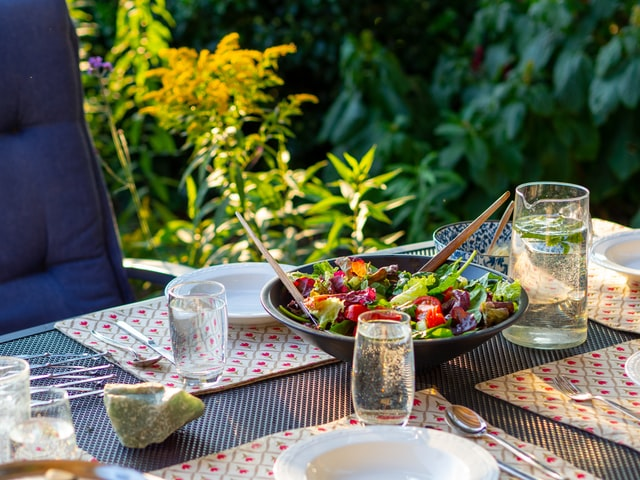
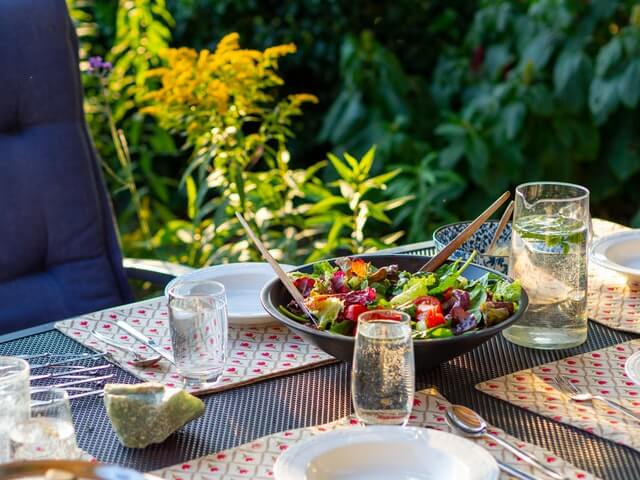
optimized images and changed footer

diff --git a/index.html b/index.html
@@ -267,7 +267,7 @@
                   src="./assets/team02.jpg"
                   alt="person-photo"
                 />
-                <h3 class="testimonial__name">John Doe</h3>
+                <h3 class="testimonial__name">Jane Doe</h3>
                 <p class="section__text">
                   Lorem ipsum dolor sit amet consectetur adipisicing elit. Esse
                   aut error pariatur in quasi sapiente. Saepe, error. Rem quidem
@@ -283,7 +283,7 @@
                   src="./assets/team03.jpg"
                   alt="person-photo"
                 />
-                <h3 class="testimonial__name">Jane Doe</h3>
+                <h3 class="testimonial__name">John Doe</h3>
                 <p class="section__text">
                   Lorem ipsum dolor sit amet consectetur adipisicing elit. Esse
                   aut error pariatur in quasi sapiente. Saepe, error. Rem quidem
@@ -356,7 +356,7 @@
       </article>
     </main>
     <footer class="footer">
-      <p>Проект выполнен в целях обучения</p>
+      <p>2020 | Elizaveta Kucherova | Made for educational purposes</p>
     </footer>
     <script src="./shared.js"></script>
   </body>
